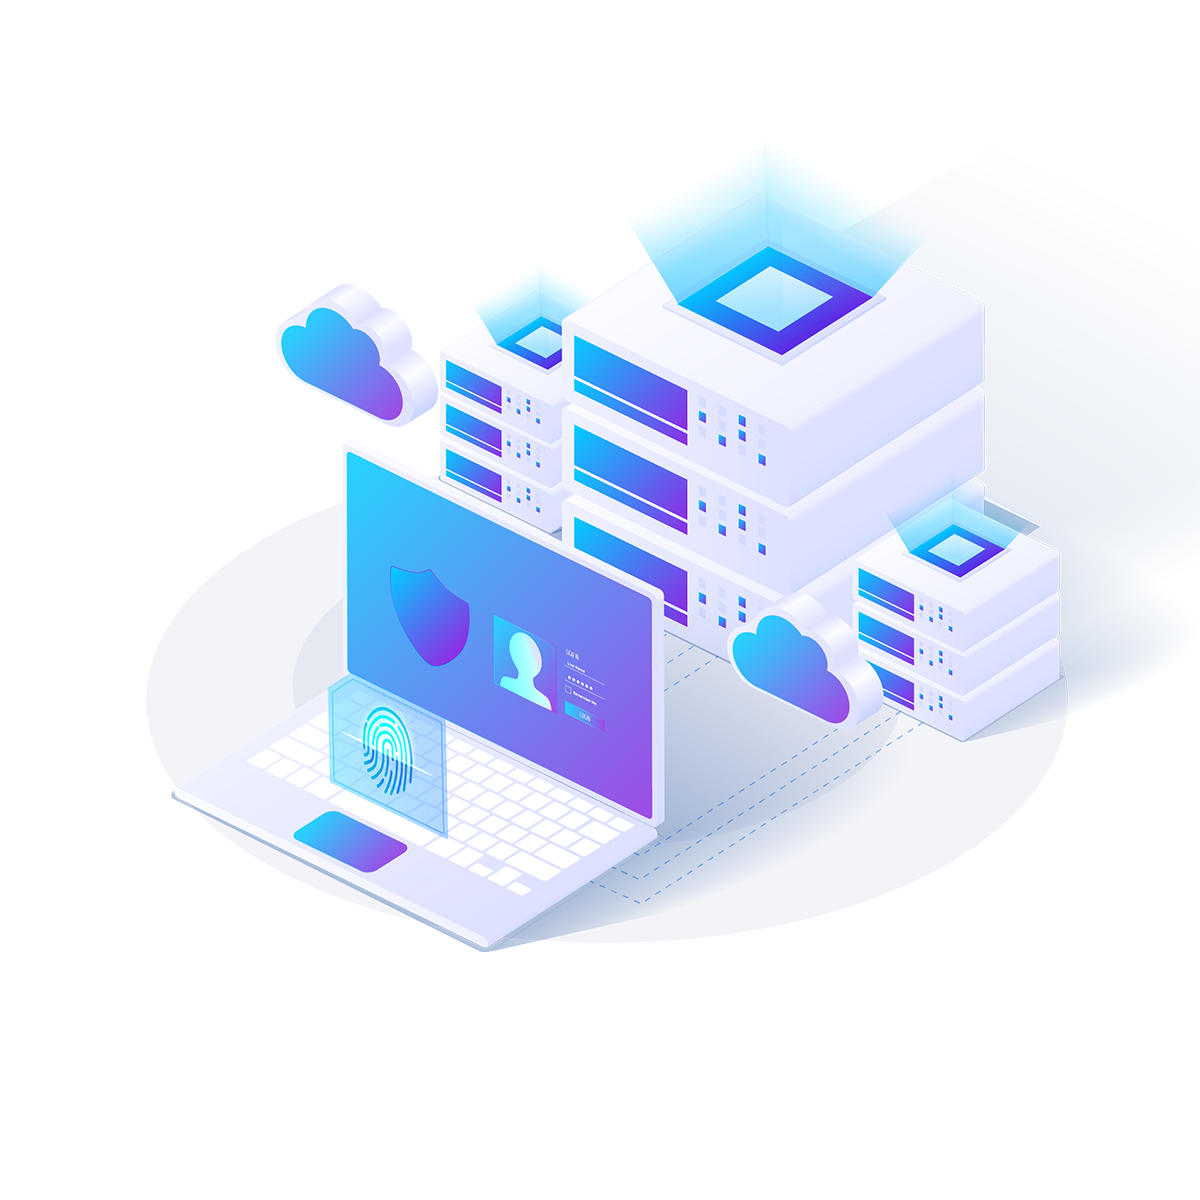
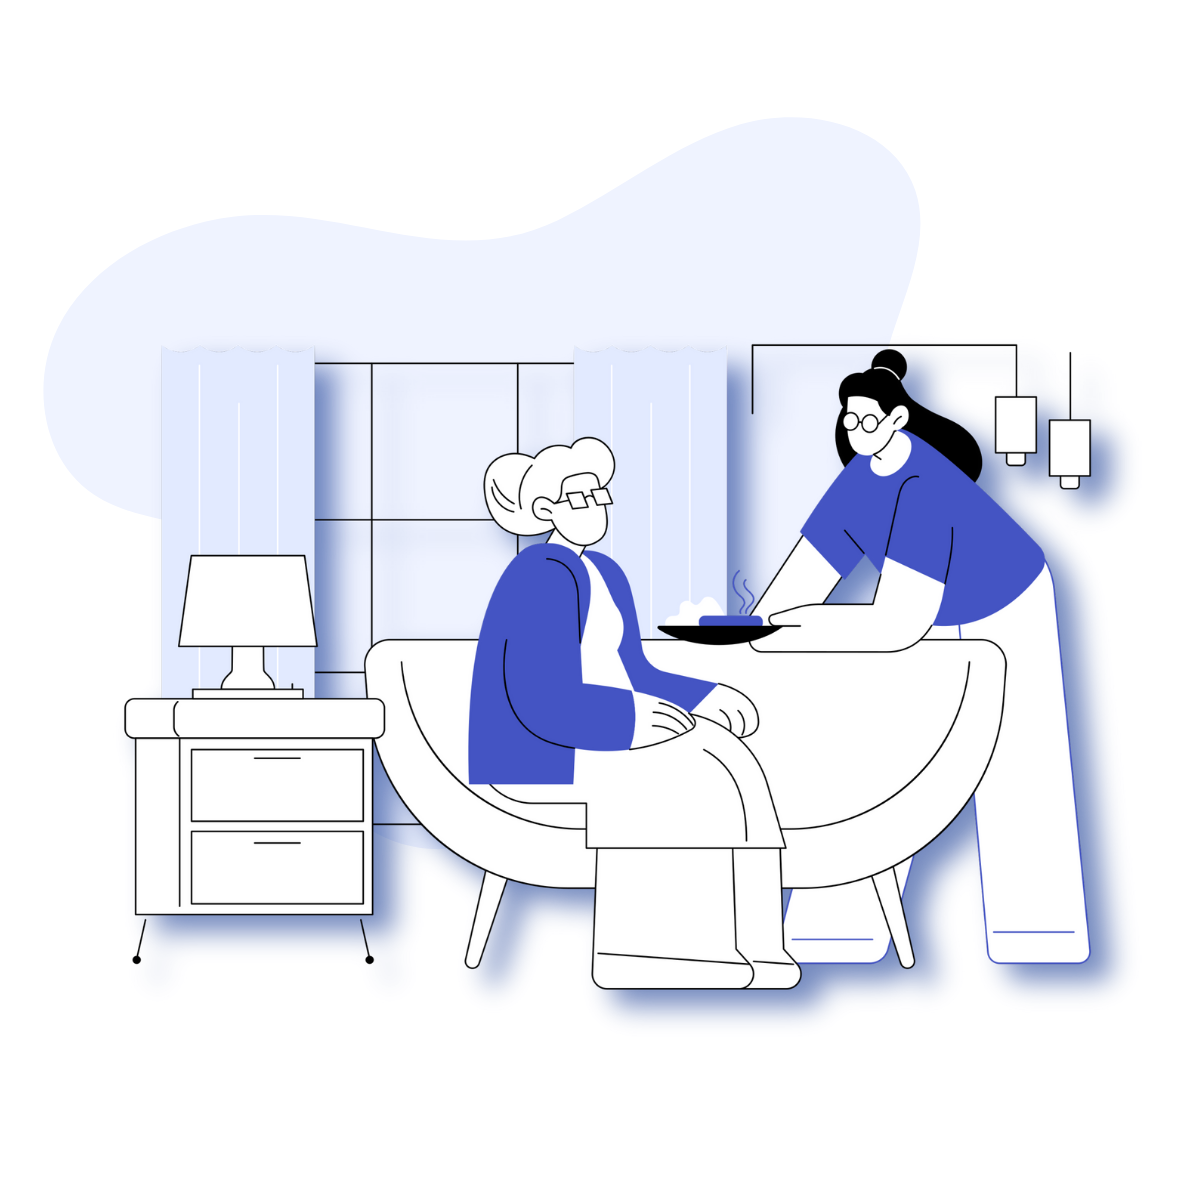
modified assets

Changed region(s): [[0.0925, 0.1542, 0.9558, 0.8633], [0.0925, 0.5858, 0.1542, 0.6167]]

diff --git a/public/assets/css/style.css b/public/assets/css/style.css
@@ -1064,13 +1064,13 @@ a.btn.disabled, fieldset:disabled a.btn {
 
 .btn-primary {
   color: #fff !important;
-  background-color: #4454c3;
-  border-color: #4454c3;
+  background-color: #5631ae;
+  border-color: #5631ae;
   box-shadow: 0 0px 10px -5px rgba(68, 84, 195, 0.5); }
   .btn-primary:hover {
     color: #fff !important;
-    background-color: #3d4bb7;
-    border-color: #3d4bb7; }
+    background-color: #02298a;
+    border-color: #02298a; }
   .btn-primary:focus, .btn-primary.focus {
     box-shadow: 0 0 0 2px rgba(45, 102, 247, 0.5);
     color: #fff !important;
@@ -19522,7 +19522,7 @@ select [aria-selected=true] {
   vertical-align: text-top !important; }
 
 .bg-primary {
-  background-color: #4454c3 !important; }
+  background-color: #5631ae !important; } /* changed to violet */
 
 a.bg-primary:hover, a.bg-primary:focus {
   background-color: #24987E !important; }

diff --git a/public/assets/scss/style.css b/public/assets/scss/style.css
@@ -22385,7 +22385,7 @@ select.form-control-lg:not([size]):not([multiple]) {
 	vertical-align: text-top !important;
 }
 .bg-primary {
-	background-color: #4454c3 !important;
+	background-color: #964fb2 !important;
 }
 a.bg-primary:hover, a.bg-primary:focus {
 	background-color: #24987E !important;

diff --git a/public/assets/scss/_variables.scss b/public/assets/scss/_variables.scss
@@ -12,7 +12,7 @@ $border:1px solid #eff0f6 ;
 
 
 /*Color variables*/
-$primary:#4454c3; 
+$primary:#5631ae; 
 $secondary:#f72d66;
 $success:#2dce89;
 $info:#45aaf2;
